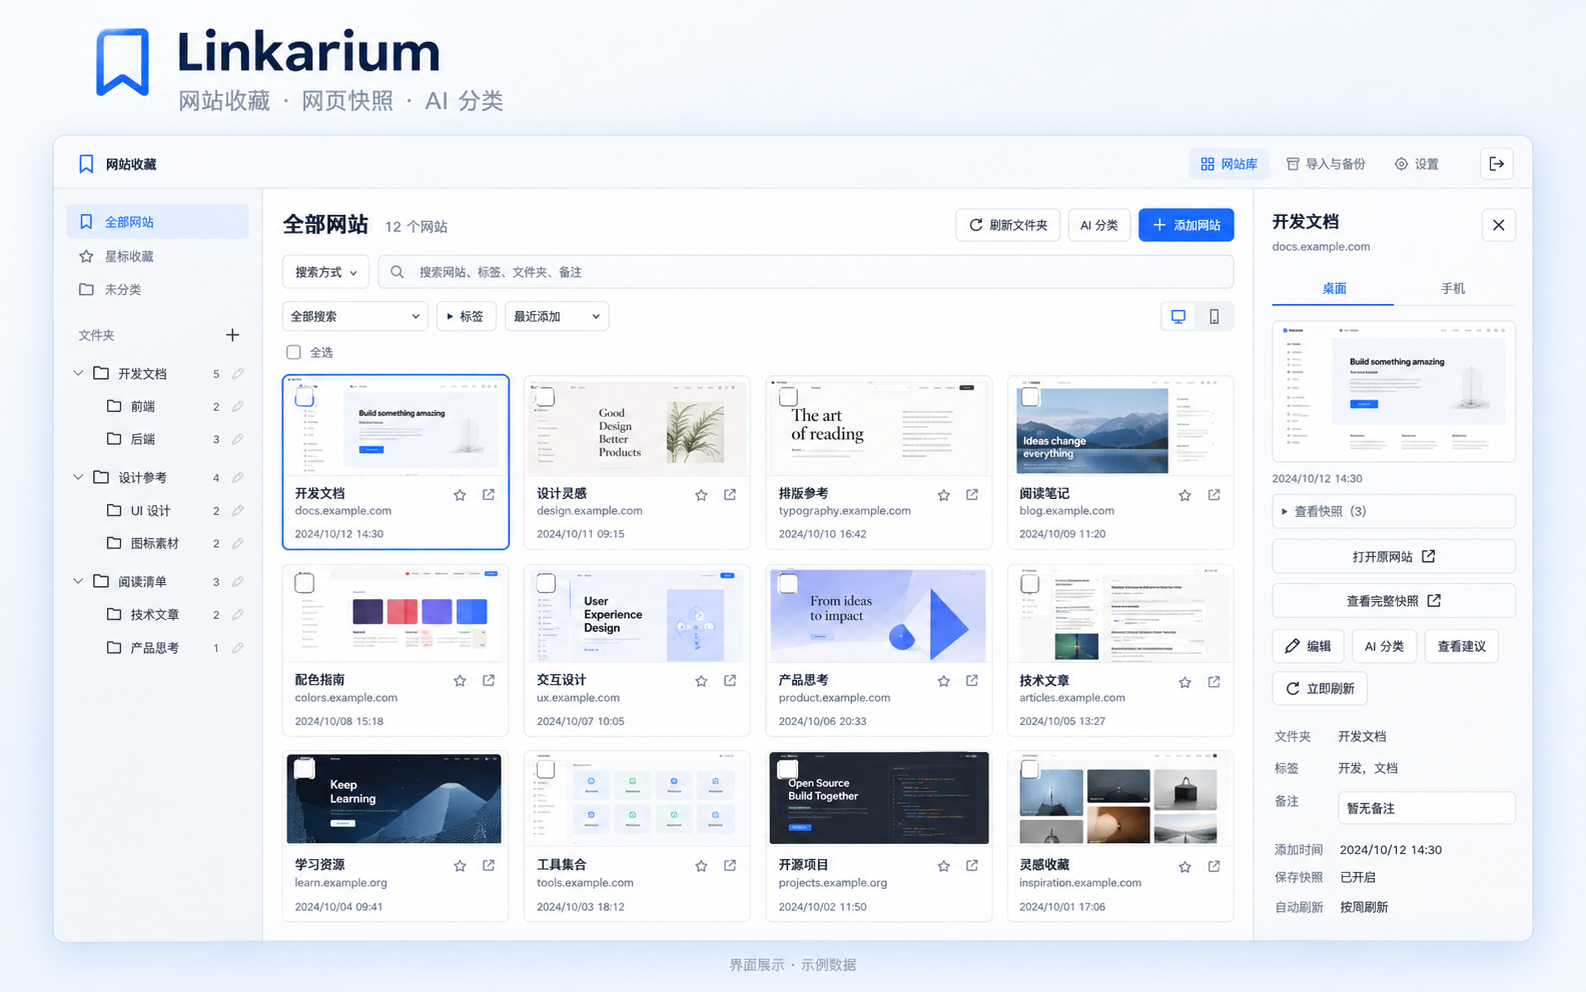
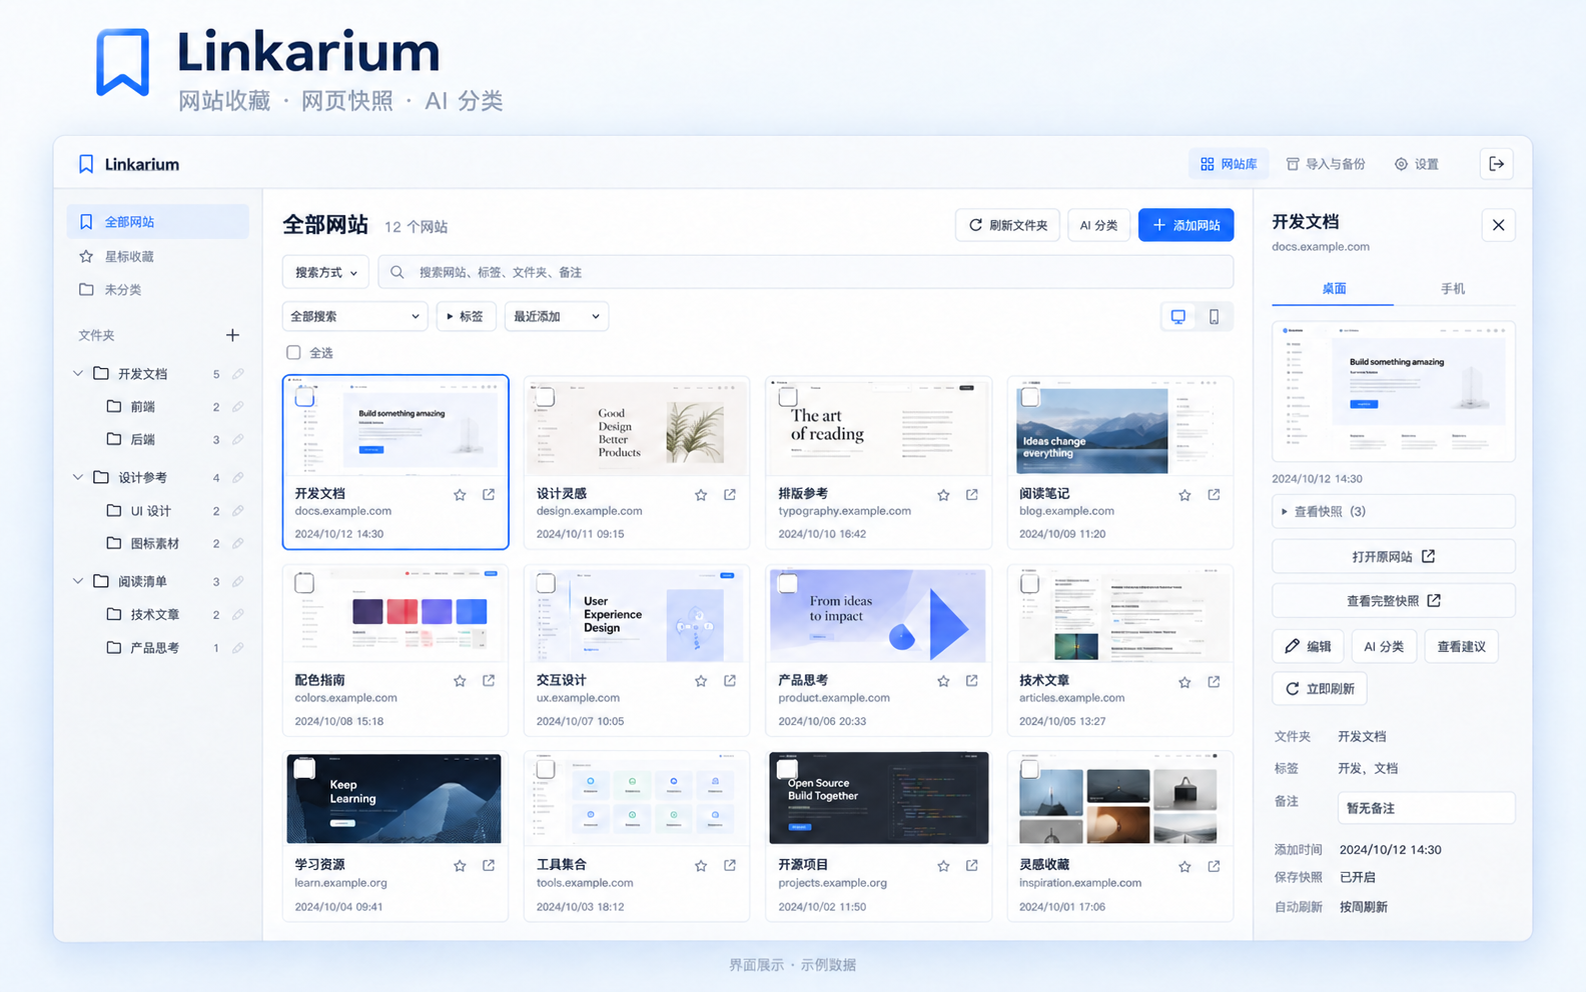
chore: align Linkarium branding across UI and showcase
Update application headings, page title and the README showcase. Refresh existing preview acceptance fixtures for the current authentication UI.

diff --git a/frontend/src/features/auth/Login.tsx b/frontend/src/features/auth/Login.tsx
@@ -67,7 +67,7 @@ export function Login({ onLogin, initializationRequired, maintenanceMode, passwo
   }
 
   return <main class={s.login}><div class={s.loginPanel}>
-    <div class={s.loginBrand}><Icon name="bookmark" size={36} /><h1>网站收藏</h1><p>让每一个好网站，都有它的位置。</p></div>
+    <div class={s.loginBrand}><Icon name="bookmark" size={36} /><h1>Linkarium</h1><p>让每一个好网站，都有它的位置。</p></div>
     {maintenanceMode ? <p role="status">正在维护数据，请等待完成后重新连接。</p>
       : initializationRequired ? <div><p role="status">请先在部署电脑初始化访问认证。</p>
         <pre style={{ whiteSpace: "pre-wrap", overflowWrap: "anywhere", fontSize: "12px" }}>.\.venv\Scripts\python.exe backend\manage.py initialize{passwordEnabled ? " --debug" : ""}</pre>

diff --git a/frontend/src/app/App.tsx b/frontend/src/app/App.tsx
@@ -235,7 +235,7 @@ export function App() {
     return (
       <div class={s.startup}>
         <Icon name="bookmark" size={36} />
-        <h1>网站收藏</h1>
+        <h1>Linkarium</h1>
         <ErrorNotice message={startupError} retry={() => void sessionLoad()} />
         {!startupError && <p class="muted">正在连接你的收藏库…</p>}
       </div>
@@ -294,7 +294,7 @@ export function App() {
             class={s.brand}
           >
             <Icon name="bookmark" size={24} />
-            <span>网站收藏</span>
+            <span>Linkarium</span>
           </a>
           <nav class={s.topNav} aria-label="主页面">
             {navigation.map((n) => (

diff --git a/frontend/index.html b/frontend/index.html
@@ -4,9 +4,9 @@
     <meta charset="UTF-8" />
     <meta name="viewport" content="width=device-width, initial-scale=1.0" />
     <meta name="theme-color" content="#f6f7f9" />
-    <meta name="description" content="你的个人网站收藏库" />
+    <meta name="description" content="Linkarium，你的个人网站收藏库" />
     <link rel="icon" type="image/svg+xml" href="/src/styles/bookmark.svg" />
-    <title>网站收藏</title>
+    <title>Linkarium</title>
   </head>
   <body>
     <div id="app"></div>

diff --git a/tests/preview_retention_ui.py b/tests/preview_retention_ui.py
@@ -101,7 +101,10 @@ class Library:
             return
         if path == "session":
             data = dict(authenticated=self.authenticated, csrf_token="fixture-csrf",
-                        active_generation=self.generation, library_epoch=1)
+                        active_generation=self.generation, library_epoch=1,
+                        password_login_enabled=True)
+        elif path == "session/passkeys":
+            data = dict(items=[], can_add=False)
         elif path == "session/logout":
             self.authenticated = False
             data = {}
@@ -227,7 +230,7 @@ async def scenario(browser, origin, mobile=False):
     await page.get_by_role("navigation", name="工具页面" if mobile else "主页面", exact=True).get_by_role("link", name="设置", exact=True).click()
     await expect(page.get_by_role("heading", name="设置", exact=True)).to_be_visible()
     assert await page.locator("iframe:visible").count() == 0
-    await page.get_by_role("link", name="网站收藏", exact=True).click()
+    await page.get_by_role("link", name="Linkarium", exact=True).click()
     await settle(page)
     await page.go_back()
     await expect(page.get_by_role("heading", name="设置", exact=True)).to_be_visible()
@@ -255,11 +258,11 @@ async def scenario(browser, origin, mobile=False):
     # An API 401 follows the real application session-expiry path.
     library.expire_next = True
     await page.get_by_role("button", name="添加星标 Preview Site 000", exact=True).click()
-    await expect(page.get_by_role("button", name="进入收藏库", exact=True)).to_be_visible()
+    await expect(page.get_by_role("button", name="密码登录", exact=True)).to_be_visible()
     await expect(page.locator("iframe")).to_have_count(0)
     library.generation = "preview-library-two"
     await page.locator('input[type="password"]').fill("isolated-fixture-password")
-    await page.get_by_role("button", name="进入收藏库", exact=True).click()
+    await page.get_by_role("button", name="密码登录", exact=True).click()
     await settle(page)
     assert library.requests[f"version-0-{variant}-new"] == 2
     await page.reload()

diff --git a/frontend/scripts/thumbnail-preview-acceptance.py b/frontend/scripts/thumbnail-preview-acceptance.py
@@ -114,16 +114,16 @@ async def scenario(browser, origin, jpeg, mobile=False):
     await page.get_by_role("navigation", name="工具页面" if mobile else "主页面", exact=True).get_by_role("link", name="设置", exact=True).click()
     await expect(page.get_by_role("heading", name="设置", exact=True)).to_be_visible()
     await expect(page.locator("[data-preview-image]:visible")).to_have_count(0)
-    await page.get_by_role("link", name="网站收藏", exact=True).click()
+    await page.get_by_role("link", name="Linkarium", exact=True).click()
     await settle(page)
     assert library.thumbnail_requests[f"version-0-{variant}-new"] == 1
     library.expire_next = True
     await page.get_by_role("button", name="添加星标 Preview Site 000", exact=True).click()
-    await expect(page.get_by_role("button", name="进入收藏库", exact=True)).to_be_visible()
+    await expect(page.get_by_role("button", name="密码登录", exact=True)).to_be_visible()
     await expect(page.locator("[data-preview-image]")).to_have_count(0)
     library.generation = "second-library"
     await page.locator('input[type="password"]').fill("fixture")
-    await page.get_by_role("button", name="进入收藏库", exact=True).click()
+    await page.get_by_role("button", name="密码登录", exact=True).click()
     await settle(page)
     assert library.thumbnail_requests[f"version-0-{variant}-new"] == 2
     if not mobile:
@@ -194,7 +194,7 @@ async def faults(browser, origin, jpeg):
     library.modes = {"version-0-desktop": "expired"}
     await page.route("**/api/v1/**", library.route)
     await page.goto(f"{origin}/library?device=desktop")
-    await expect(page.get_by_role("button", name="进入收藏库", exact=True)).to_be_visible()
+    await expect(page.get_by_role("button", name="密码登录", exact=True)).to_be_visible()
     await expect(page.locator("[data-preview-image]")).to_have_count(0)
     await context.close()
     return {"202_retries_then_ready": True, "404_and_wrong_type_no_html_fallback": True,

diff --git a/README.md b/README.md
@@ -15,7 +15,7 @@
 
 </div>
 
-![Linkarium 界面展示：网站收藏、网页快照与 AI 分类，使用示例数据](doc/linkarium-showcase.png)
+![Linkarium 界面展示：可视化收藏库、网页快照与 AI 分类（示例数据）](doc/linkarium-showcase.png?v=2)
 
 ## 功能
 
